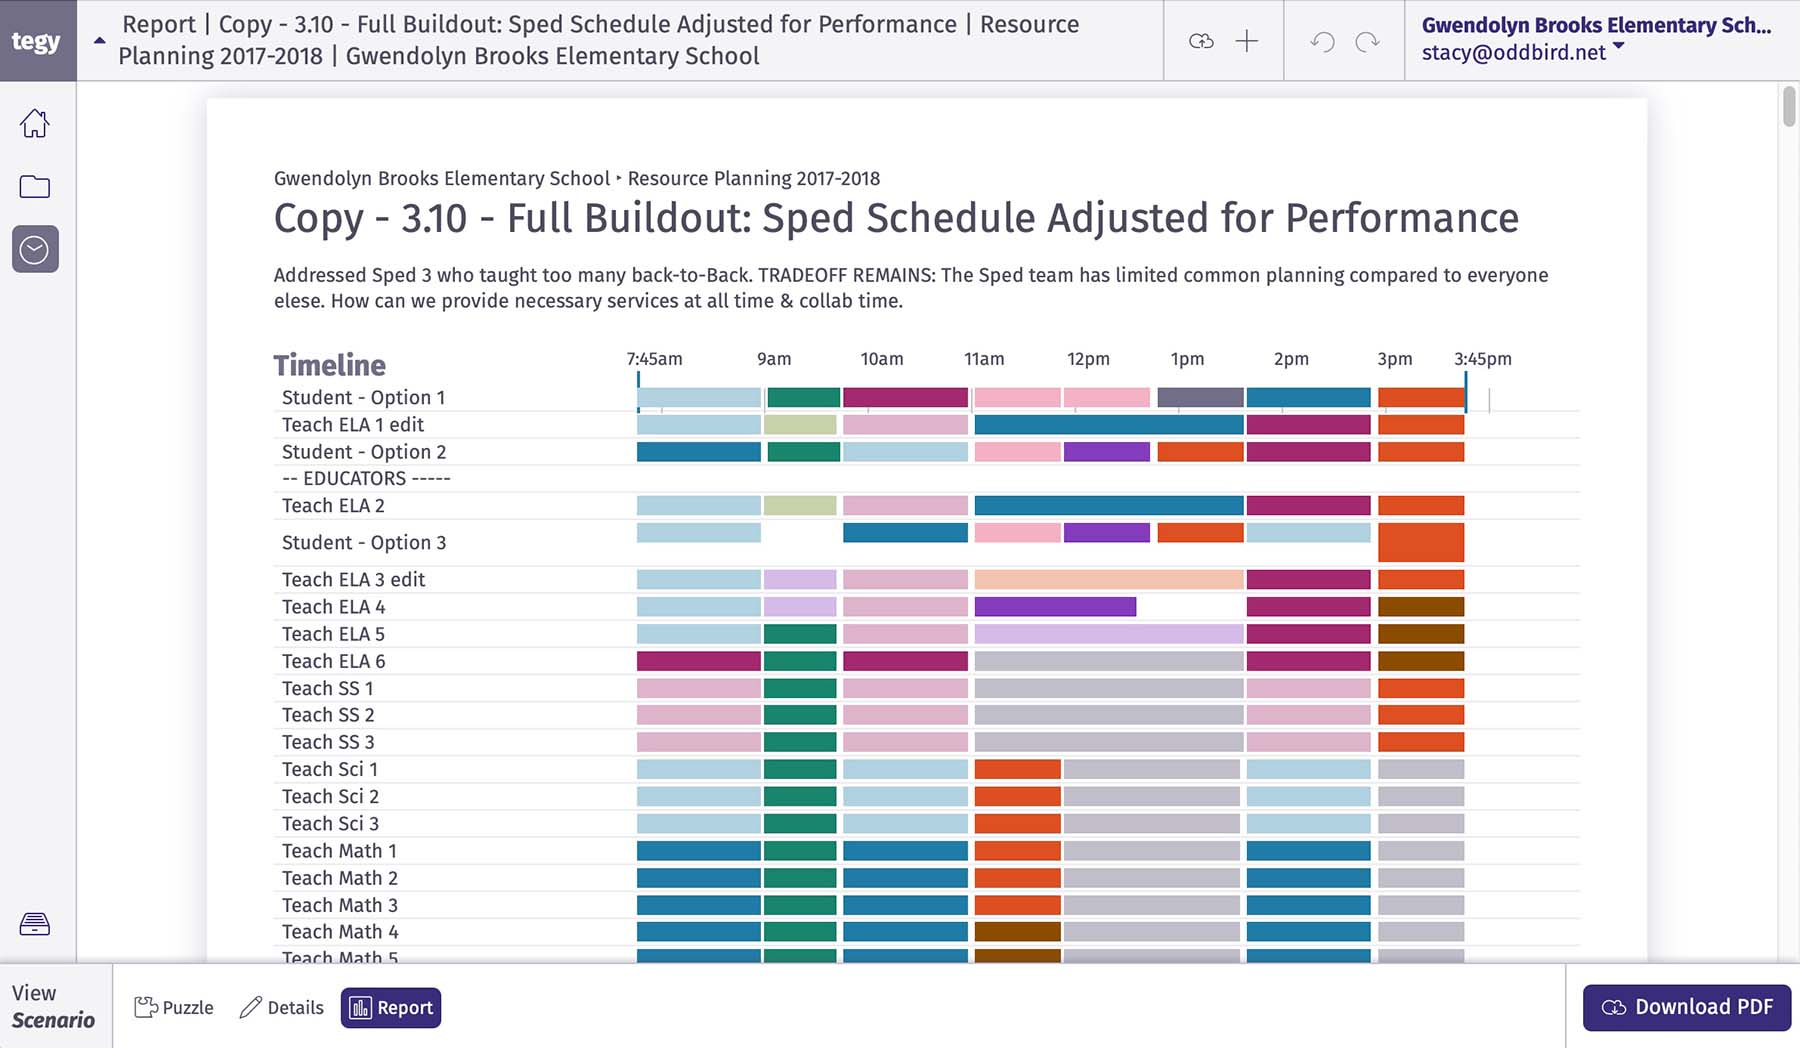
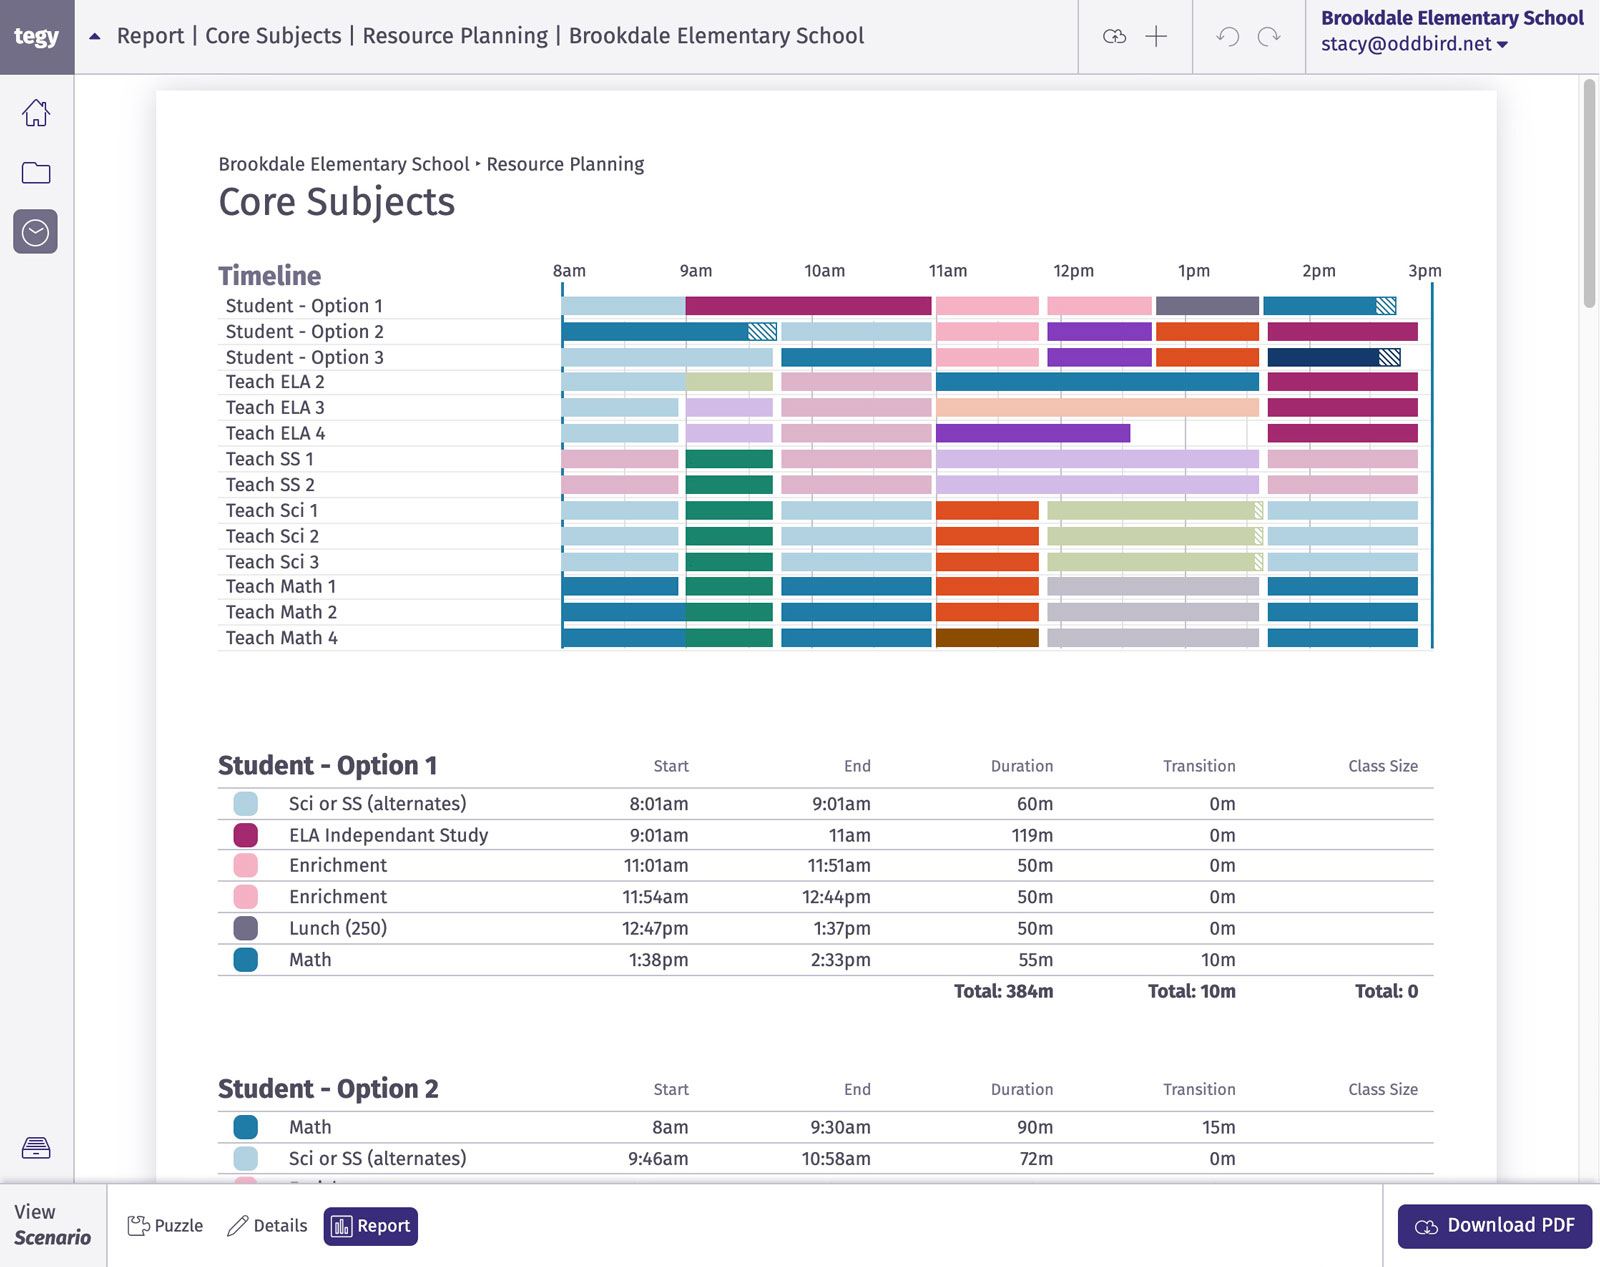
updated report image and added report features

diff --git a/content/work/timedesigner.md b/content/work/timedesigner.md
@@ -451,6 +451,10 @@ and used print-to-pdf
 in a [headless Chrome](https://github.com/fate0/pychrome) instance
 to render an HTML string to a PDF.
 
+In addition to showing the scenario grid,
+the reports included an expanded table view for each row
+and a chart of the total minutes per color for the scenario.
+
 {{ embed.figure(
   data=[{
     img: 'work/timedesigner/reports.jpg',
